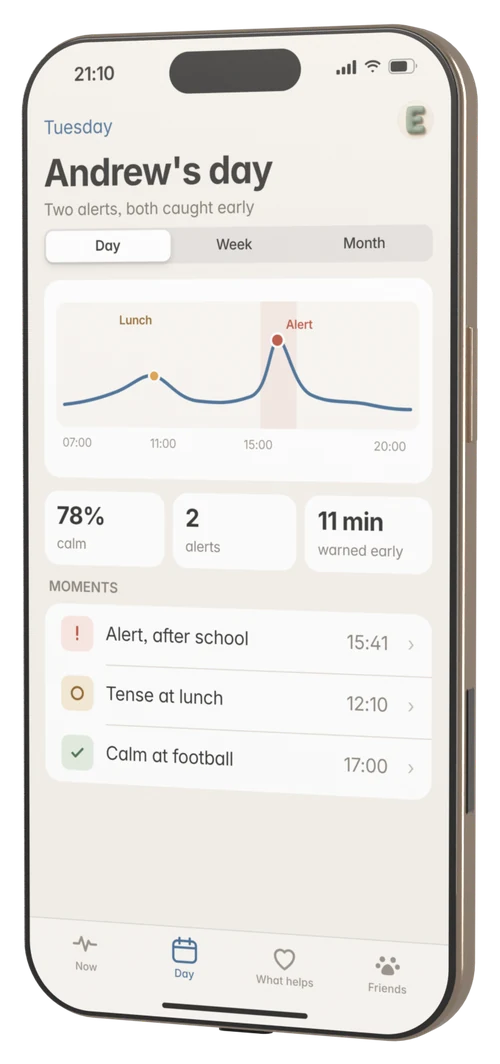
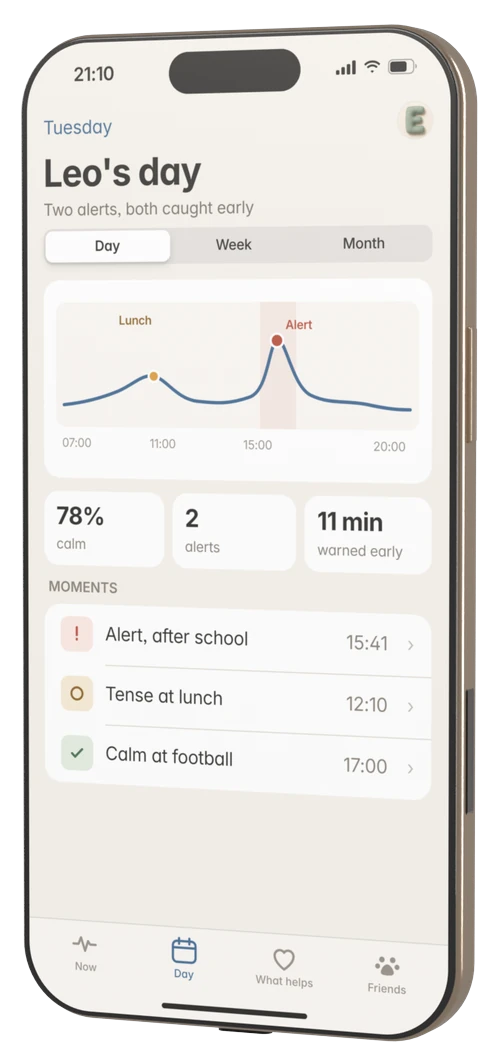
Home: canon v3 copy (no vibration motor), phone screens and og image use Leo
- Board callout: motion sensor and Bluetooth, no soft buzz
- What helps screen: quiet corner instead of the friend's slow buzz
- Phone renders re-made from the 3D phone scene with Leo on every screen
- og.jpg: phone swapped to the Leo lock screen

Claude-Session: https://claude.ai/code/session_016tAspzWU5uf4PzY2q5TPvf

diff --git a/_src/template.html b/_src/template.html
@@ -72,7 +72,7 @@ setTimeout(function(){if(!window.__emozuReady)d.classList.remove('motion')},3500
     </div>
     <figure class="hero-fig">
       <img src="@A@assets/hero.webp" alt="Concept photo of a ladybug friend on a soft blue band, on a 6-year-old's wrist, real size" width="868" height="1045" fetchpriority="high">
-      <img class="float phone" src="@A@assets/phone-push.webp" alt="Concept screen: a phone lock screen with the Emozu logo and a push, Andrew is starting to get tense, rising fast, about 4 minutes before it usually peaks" width="600" height="1128">
+      <img class="float phone" src="@A@assets/phone-push.webp" alt="Concept screen: a phone lock screen with the Emozu logo and a push, Leo is starting to get tense, rising fast, about 4 minutes before it usually peaks" width="600" height="1128">
       <div class="float zero">99 children studied. <em>0 at home.</em></div>
       <figcaption class="hero-note">
         <svg viewBox="0 0 34 34" fill="none" stroke="currentColor" stroke-width="1.8" stroke-linecap="round" stroke-linejoin="round" aria-hidden="true"><path d="M30 28C18 28 9 20 7 6"/><path d="M2 12l5-7 6 6"/></svg>
@@ -126,7 +126,7 @@ setTimeout(function(){if(!window.__emozuReady)d.classList.remove('motion')},3500
           <span class="call r" style="left:50%;top:32%">Battery lives in the friend</span>
           <span class="call r" style="left:50%;top:41.7%">Two hooks, a latch, contact pads</span>
           <span class="call l" style="left:25.6%;top:49.3%">Four spring contacts</span>
-          <span class="call l" style="left:25.6%;top:60.2%">Board: motion sensor, soft buzz</span>
+          <span class="call l" style="left:25.6%;top:60.2%">Board: motion sensor, Bluetooth</span>
           <span class="call l" style="left:25.6%;top:72%">Base on the skin: pulse, EDA, temperature</span>
           <span class="call r" style="left:50%;top:83.5%">Pebble frame, woven band</span>
           <span class="chip">Render · design targets</span>
@@ -162,17 +162,17 @@ setTimeout(function(){if(!window.__emozuReady)d.classList.remove('motion')},3500
     </div>
     <div class="phones" tabindex="0" aria-label="Three concept screens of the parent app">
       <div class="ph-col">
-        <img class="ph3d" src="@A@assets/phone-lock.webp" alt="Concept screen: a phone lock screen with the Emozu logo and a time-sensitive push, Andrew is starting to get tense, a rising body-signal chart and two actions" width="500" height="1064" loading="lazy">
+        <img class="ph3d" src="@A@assets/phone-lock.webp" alt="Concept screen: a phone lock screen with the Emozu logo and a time-sensitive push, Leo is starting to get tense, a rising body-signal chart and two actions" width="500" height="1064" loading="lazy">
         <h3>The alert</h3>
         <p>Minutes before, not after.</p>
       </div>
       <div class="ph-col">
-        <img class="ph3d" src="@A@assets/phone-day.webp" alt="Concept screen: Andrew's day in the Emozu app, a calm and tension line with lunch and one alert, 78% calm, 2 alerts, 11 minutes warned early" width="500" height="1064" loading="lazy">
+        <img class="ph3d" src="@A@assets/phone-day.webp" alt="Concept screen: Leo's day in the Emozu app, a calm and tension line with lunch and one alert, 78% calm, 2 alerts, 11 minutes warned early" width="500" height="1064" loading="lazy">
         <h3>The day</h3>
         <p>Patterns nobody can hold in their head.</p>
       </div>
       <div class="ph-col">
-        <img class="ph3d" src="@A@assets/phone-helps.webp" alt="Concept screen: what helps, ranked by how fast the body settles, friend's slow buzz 8 of 10, leaving the room 7 of 10" width="500" height="1064" loading="lazy">
+        <img class="ph3d" src="@A@assets/phone-helps.webp" alt="Concept screen: what helps, ranked by how fast the body settles, a quiet corner 8 of 10, leaving the room 7 of 10" width="500" height="1064" loading="lazy">
         <h3>What works</h3>
         <p>Ranked by the body, not by guesswork.</p>
       </div>

diff --git a/index.html b/index.html
@@ -73,7 +73,7 @@ setTimeout(function(){if(!window.__emozuReady)d.classList.remove('motion')},3500
     </div>
     <figure class="hero-fig">
       <img src="assets/hero.webp" alt="Concept photo of a ladybug friend on a soft blue band, on a 6-year-old's wrist, real size" width="868" height="1045" fetchpriority="high">
-      <img class="float phone" src="assets/phone-push.webp" alt="Concept screen: a phone lock screen with the Emozu logo and a push, Andrew is starting to get tense, rising fast, about 4 minutes before it usually peaks" width="600" height="1128">
+      <img class="float phone" src="assets/phone-push.webp" alt="Concept screen: a phone lock screen with the Emozu logo and a push, Leo is starting to get tense, rising fast, about 4 minutes before it usually peaks" width="600" height="1128">
       <div class="float zero">99 children studied. <em>0 at home.</em></div>
       <figcaption class="hero-note">
         <svg viewBox="0 0 34 34" fill="none" stroke="currentColor" stroke-width="1.8" stroke-linecap="round" stroke-linejoin="round" aria-hidden="true"><path d="M30 28C18 28 9 20 7 6"/><path d="M2 12l5-7 6 6"/></svg>
@@ -127,7 +127,7 @@ setTimeout(function(){if(!window.__emozuReady)d.classList.remove('motion')},3500
           <span class="call r" style="left:50%;top:32%">Battery lives in the friend</span>
           <span class="call r" style="left:50%;top:41.7%">Two hooks, a latch, contact pads</span>
           <span class="call l" style="left:25.6%;top:49.3%">Four spring contacts</span>
-          <span class="call l" style="left:25.6%;top:60.2%">Board: motion sensor, soft buzz</span>
+          <span class="call l" style="left:25.6%;top:60.2%">Board: motion sensor, Bluetooth</span>
           <span class="call l" style="left:25.6%;top:72%">Base on the skin: pulse, EDA, temperature</span>
           <span class="call r" style="left:50%;top:83.5%">Pebble frame, woven band</span>
           <span class="chip">Render · design targets</span>
@@ -163,17 +163,17 @@ setTimeout(function(){if(!window.__emozuReady)d.classList.remove('motion')},3500
     </div>
     <div class="phones" tabindex="0" aria-label="Three concept screens of the parent app">
       <div class="ph-col">
-        <img class="ph3d" src="assets/phone-lock.webp" alt="Concept screen: a phone lock screen with the Emozu logo and a time-sensitive push, Andrew is starting to get tense, a rising body-signal chart and two actions" width="500" height="1064" loading="lazy">
+        <img class="ph3d" src="assets/phone-lock.webp" alt="Concept screen: a phone lock screen with the Emozu logo and a time-sensitive push, Leo is starting to get tense, a rising body-signal chart and two actions" width="500" height="1064" loading="lazy">
         <h3>The alert</h3>
         <p>Minutes before, not after.</p>
       </div>
       <div class="ph-col">
-        <img class="ph3d" src="assets/phone-day.webp" alt="Concept screen: Andrew's day in the Emozu app, a calm and tension line with lunch and one alert, 78% calm, 2 alerts, 11 minutes warned early" width="500" height="1064" loading="lazy">
+        <img class="ph3d" src="assets/phone-day.webp" alt="Concept screen: Leo's day in the Emozu app, a calm and tension line with lunch and one alert, 78% calm, 2 alerts, 11 minutes warned early" width="500" height="1064" loading="lazy">
         <h3>The day</h3>
         <p>Patterns nobody can hold in their head.</p>
       </div>
       <div class="ph-col">
-        <img class="ph3d" src="assets/phone-helps.webp" alt="Concept screen: what helps, ranked by how fast the body settles, friend's slow buzz 8 of 10, leaving the room 7 of 10" width="500" height="1064" loading="lazy">
+        <img class="ph3d" src="assets/phone-helps.webp" alt="Concept screen: what helps, ranked by how fast the body settles, a quiet corner 8 of 10, leaving the room 7 of 10" width="500" height="1064" loading="lazy">
         <h3>What works</h3>
         <p>Ranked by the body, not by guesswork.</p>
       </div>
